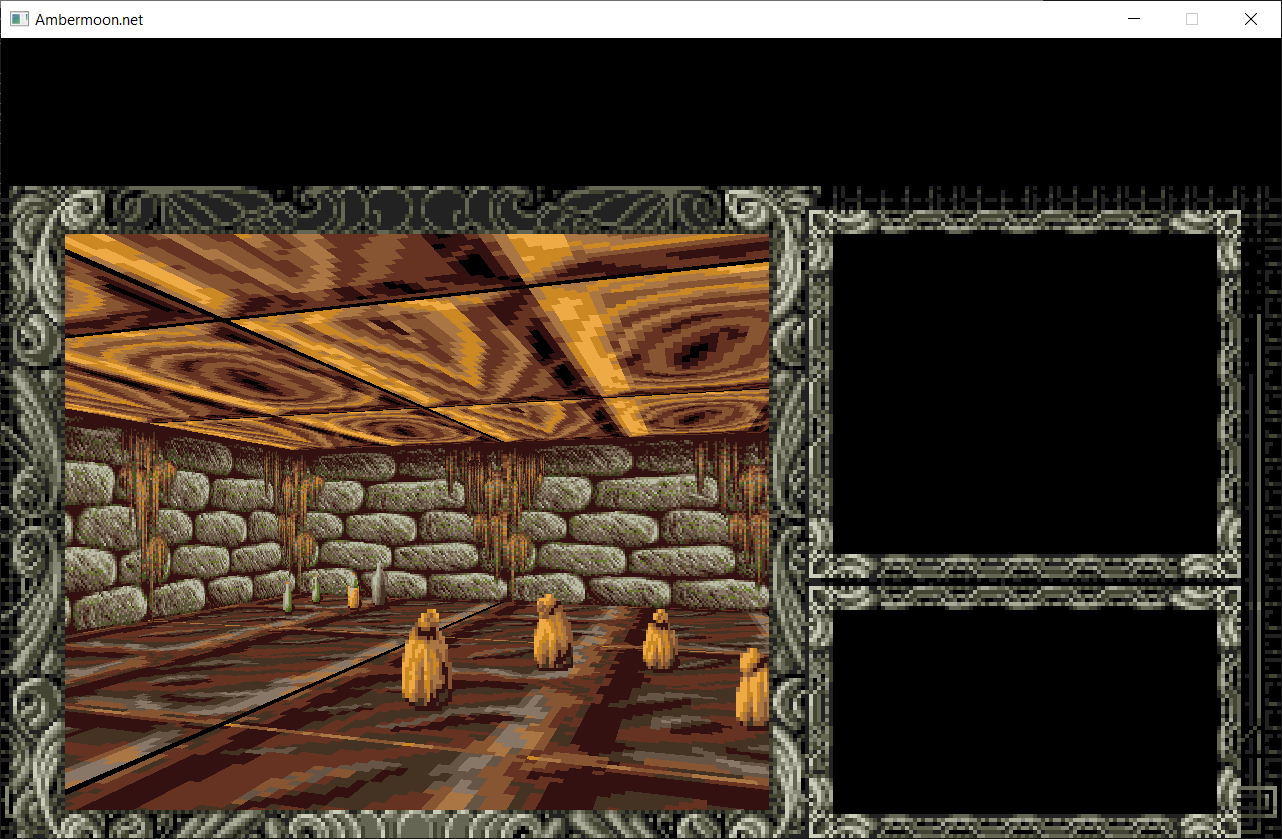
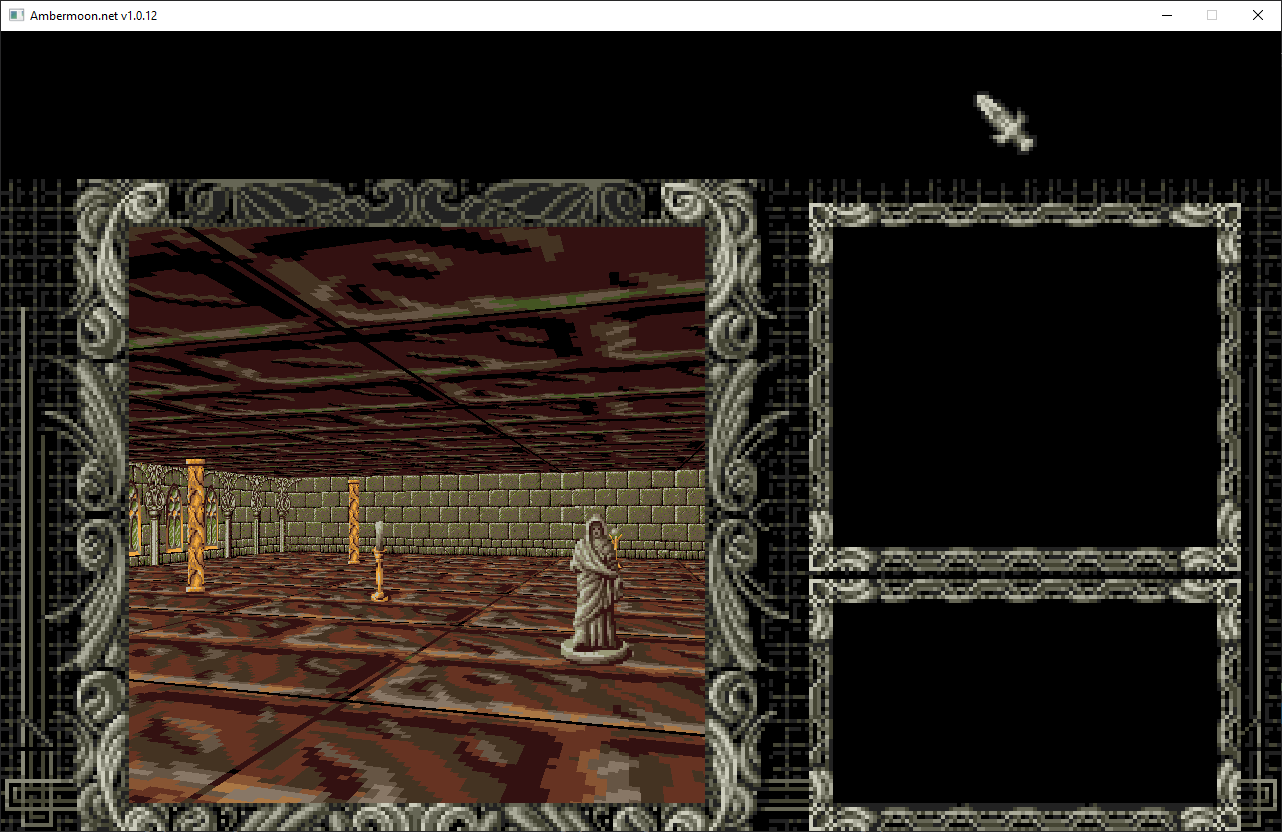
This is v1.0.12

diff --git a/README.md b/README.md
@@ -4,9 +4,9 @@
 
 Version | OS
 --- | ---
+[1.0.12](https://github.com/Pyrdacor/Ambermoon.net/releases/download/v1.0.12/Ambermoon.net-Windows.zip) | Windows 64bit
 [1.0.11](https://github.com/Pyrdacor/Ambermoon.net/releases/download/v1.0.11/Ambermoon.net-Windows.zip) | Windows 64bit
 [1.0.10](https://github.com/Pyrdacor/Ambermoon.net/releases/download/v1.0.10/Ambermoon.net-Windows.zip) | Windows 64bit
-[1.0.9](https://github.com/Pyrdacor/Ambermoon.net/releases/download/v1.0.9/Ambermoon.net-Windows.zip) | Windows 64bit
 
 Older releases can be found [here](https://github.com/Pyrdacor/Ambermoon.net/releases). Other platforms will follow.
 
@@ -30,13 +30,16 @@ You may also checkout my already working Settlers I rewrite at [freeserf.net](ht
 
 ## Current state
 
-2D map rendering is working. Moreover the player can be moved on 2D maps and map changes are possible. World map scrolling is also working. Collision detection, sitting and sleeping is also working.
-
-3D map rendering also works for the most part. But for now only walls, ceiling and floor. Static objects work too but no monsters, etc.
-
-You can freely walk through 2D and 3D maps. Collision detection and map change events now also work in 3D.
-
-Text rendering also works now with text replacements like character names, shadows and different text colors. Rune texts work too.
+Working things:
+- 2D maps
+	- movement / auto scrolling / collision detection
+	- change map events / chest events (only display the window)
+	- walk animations, animated tiles, auto-sit, auto-sleep
+- 3D maps
+	- movement / static billboards / collision detection
+- window mode / fullscreen
+- cursors (only used sword, eye, hand and mouth at the moment)
+- text rendering including runes (but not used yet)
 
 ![Map rendering](https://github.com/Pyrdacor/Ambermoon.net/raw/master/Screenshots/MapRendering1.png "Map rendering")
 ![World map](https://github.com/Pyrdacor/Ambermoon.net/raw/master/Screenshots/MapRendering2.png "World map")
@@ -44,6 +47,7 @@ Text rendering also works now with text replacements like character names, shado
 ![3D map rendering 2](https://github.com/Pyrdacor/Ambermoon.net/raw/master/Screenshots/Map3D2.png "3D map rendering 2")
 ![Billboards](https://github.com/Pyrdacor/Ambermoon.net/raw/master/Screenshots/Billboards1.png "Billboards")
 ![Text rendering](https://github.com/Pyrdacor/Ambermoon.net/raw/master/Screenshots/TextRendering.png "Text rendering")
+![Chests](https://github.com/Pyrdacor/Ambermoon.net/raw/master/Screenshots/Chests.png "Chests")
 
 
 ## Controls
@@ -55,11 +59,15 @@ Down | Move down (2D) or backward (3D)
 Left | Move left (2D) or turn left (3D)
 Right | Move right (2D) or turn right (3D)
 F11 | Toggle fullscreen mode
-ESC | Leave fullscreen mode
+ESC | Leave fullscreen mode, leave other ingame windows
+Num7 | Eye cursor
+Num8 | Hand cursor
+Num9 | Mouth cursor
 
 
 ## Change log
 
+- Version 1.0.12: Added cursors, added first version of chest map events
 - Version 1.0.11: Fixed map changes, world map now uses a smaller sprite (not the correct yet)
 - Version 1.0.10: Fixed 3D map crash, improved map event handling
 - Version 1.0.9: Added floor billboards like holes/lava, fixed billboards
